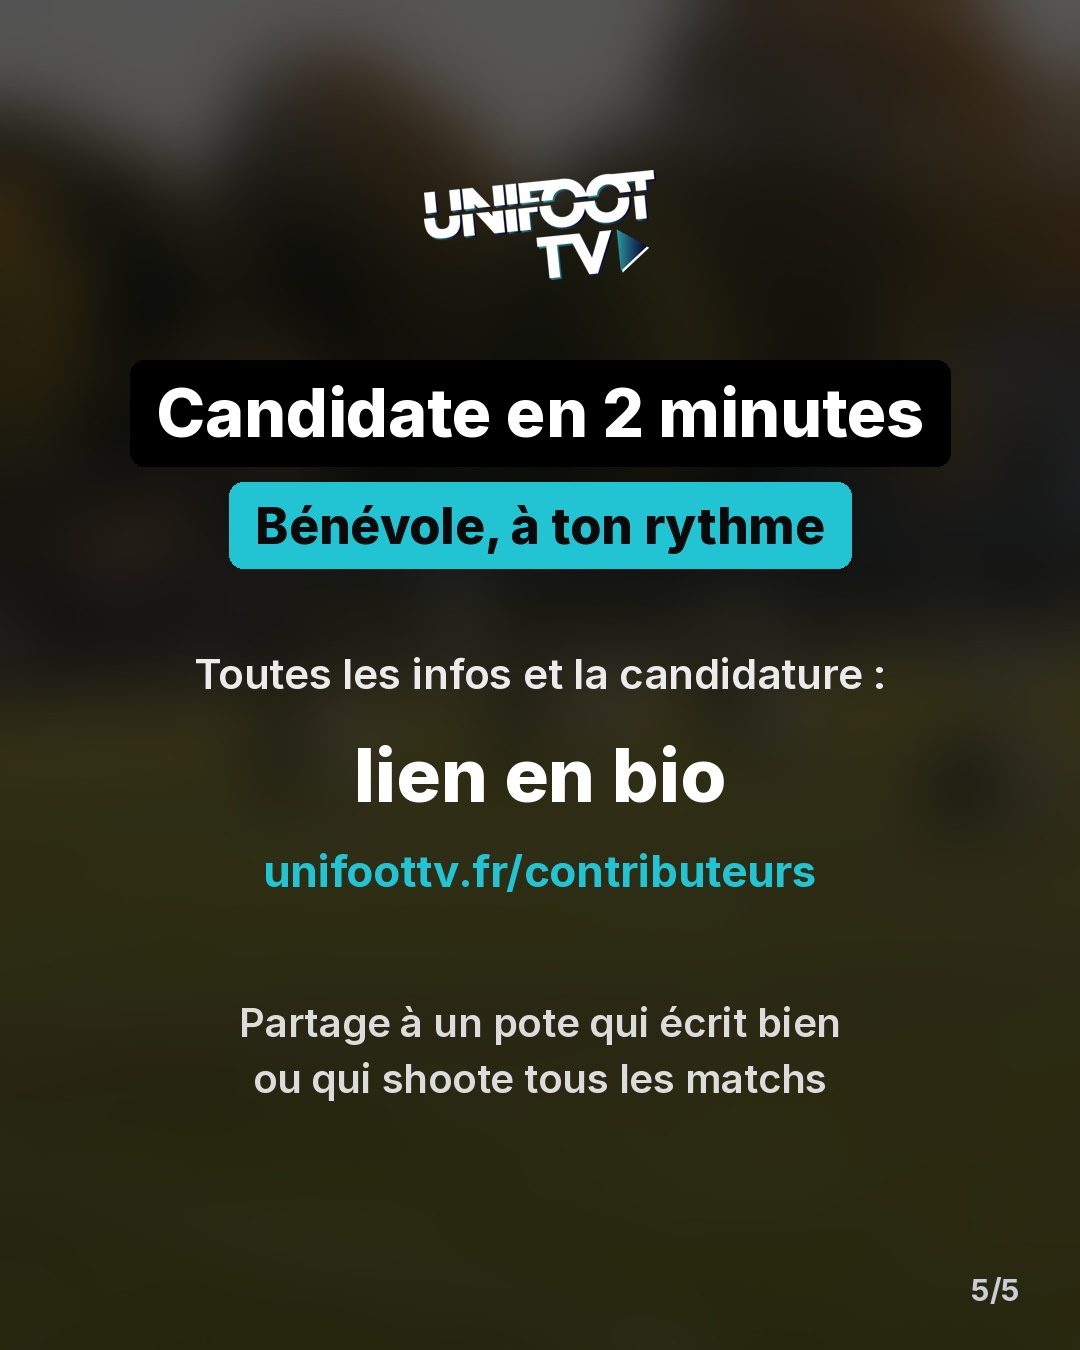
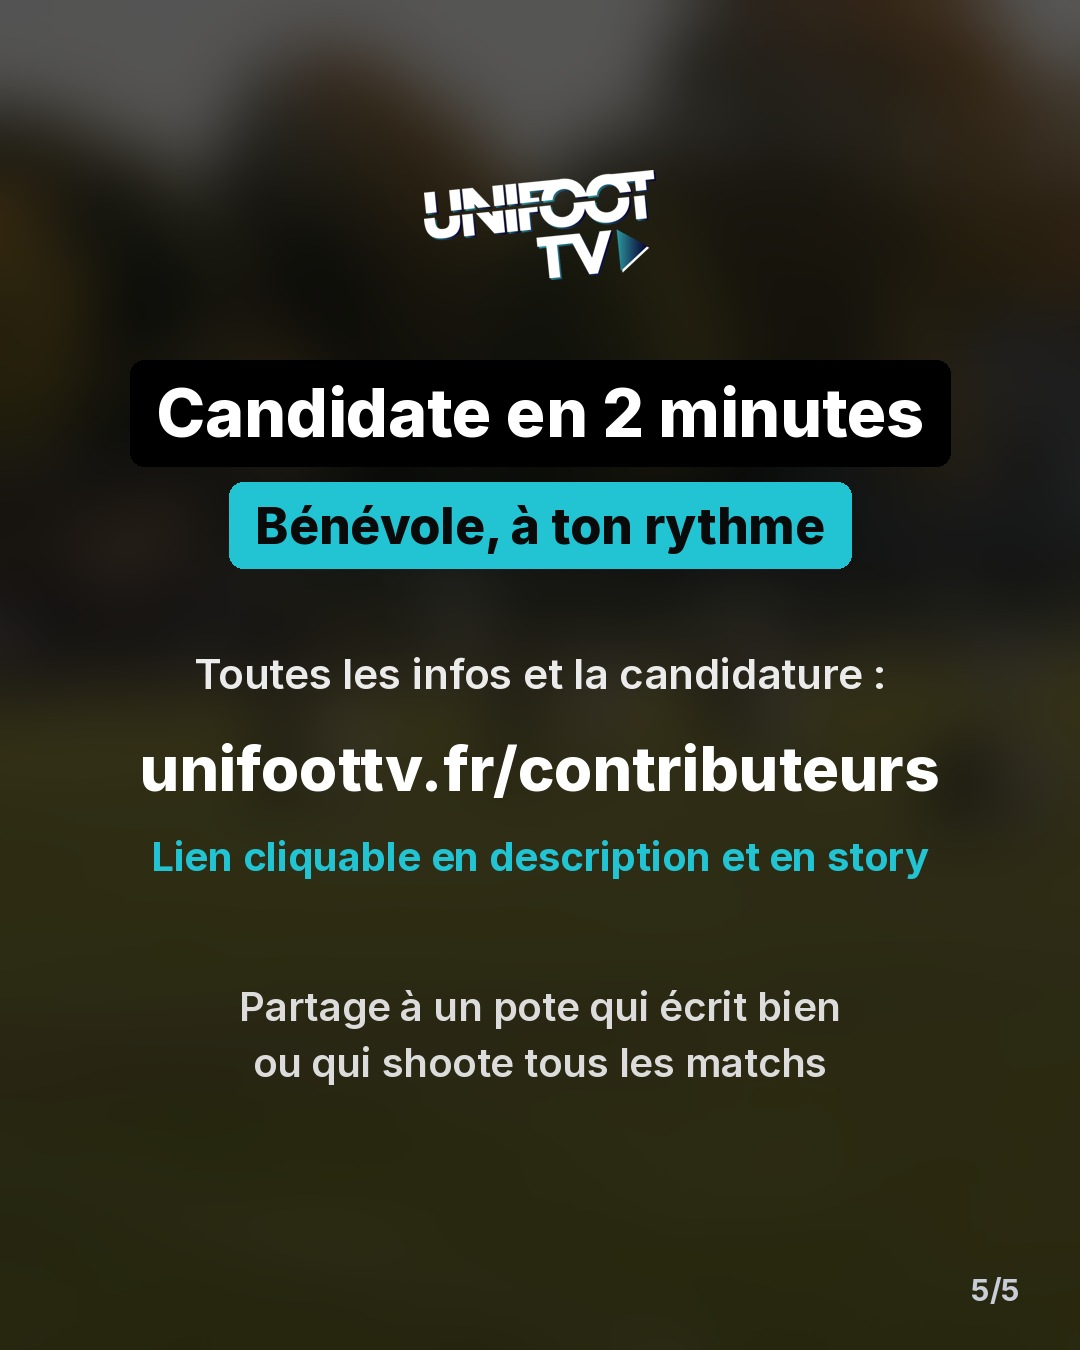
Promo contributeurs : slide finale sans « lien en bio »
Claude-Session: https://claude.ai/code/session_013rfF2X7KN3Vzq4WuT958pE

Changed region(s): [[0.2139, 0.7156, 0.7944, 0.8089], [0.1222, 0.5289, 0.8861, 0.5911], [0.1222, 0.6222, 0.8556, 0.6844]]

diff --git a/tools/promo/contrib.py b/tools/promo/contrib.py
@@ -86,7 +86,7 @@ def cta(photo,out):
     y=360
     for l in ['Candidate en 2 minutes']: y+=box(d,W,y,l,FN('ExtraBold',66))+16
     y+=box(d,W,y,'Bénévole, à ton rythme',FN('ExtraBold',50),fill=TEAL,tc=(10,10,10))+80
-    for l,f,c in [('Toutes les infos et la candidature :',FN('SemiBold',42),(235,235,235)),('lien en bio',FN('ExtraBold',74),(255,255,255)),('unifoottv.fr/contributeurs',FN('Bold',44),TEAL)]:
+    for l,f,c in [('Toutes les infos et la candidature :',FN('SemiBold',42),(235,235,235)),('unifoottv.fr/contributeurs',FN('ExtraBold',62),(255,255,255)),('Lien cliquable en description et en story',FN('Bold',40),TEAL)]:
         w=d.textlength(l,font=f); d.text(((W-w)/2,y),l,font=f,fill=c); y+=f.size+40
     y+=70
     for l in ['Partage à un pote qui écrit bien','ou qui shoote tous les matchs 📲']:
